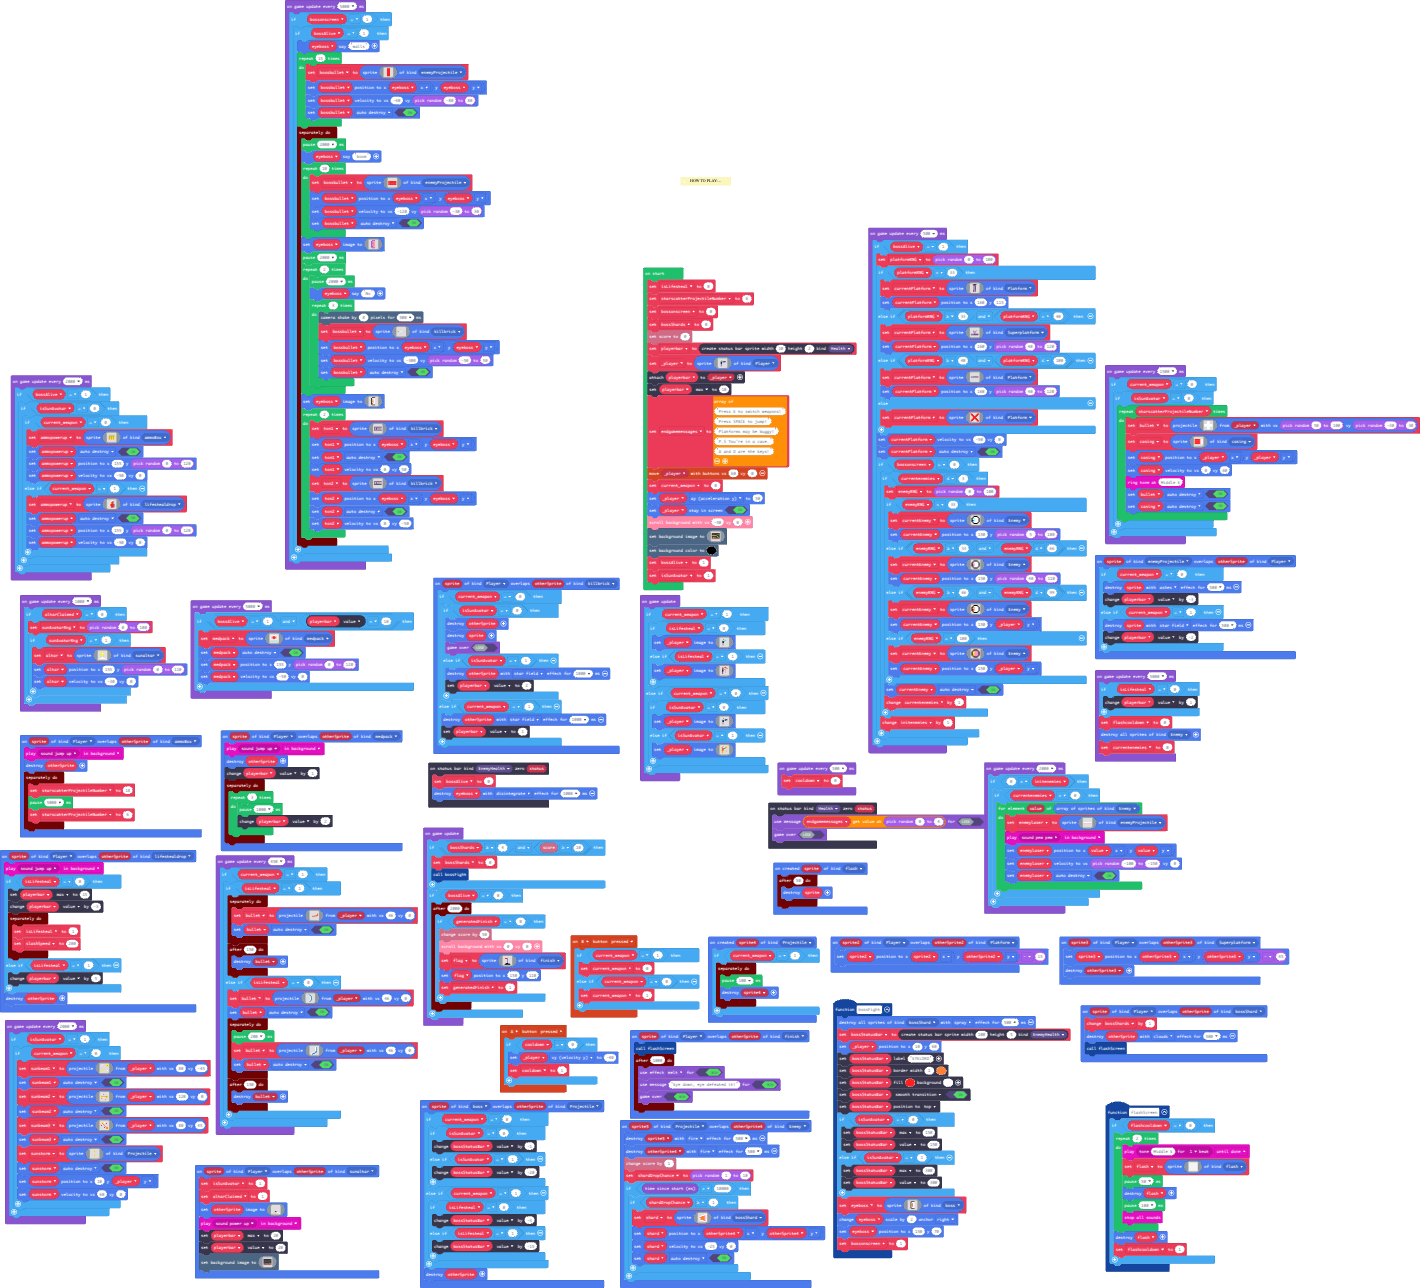
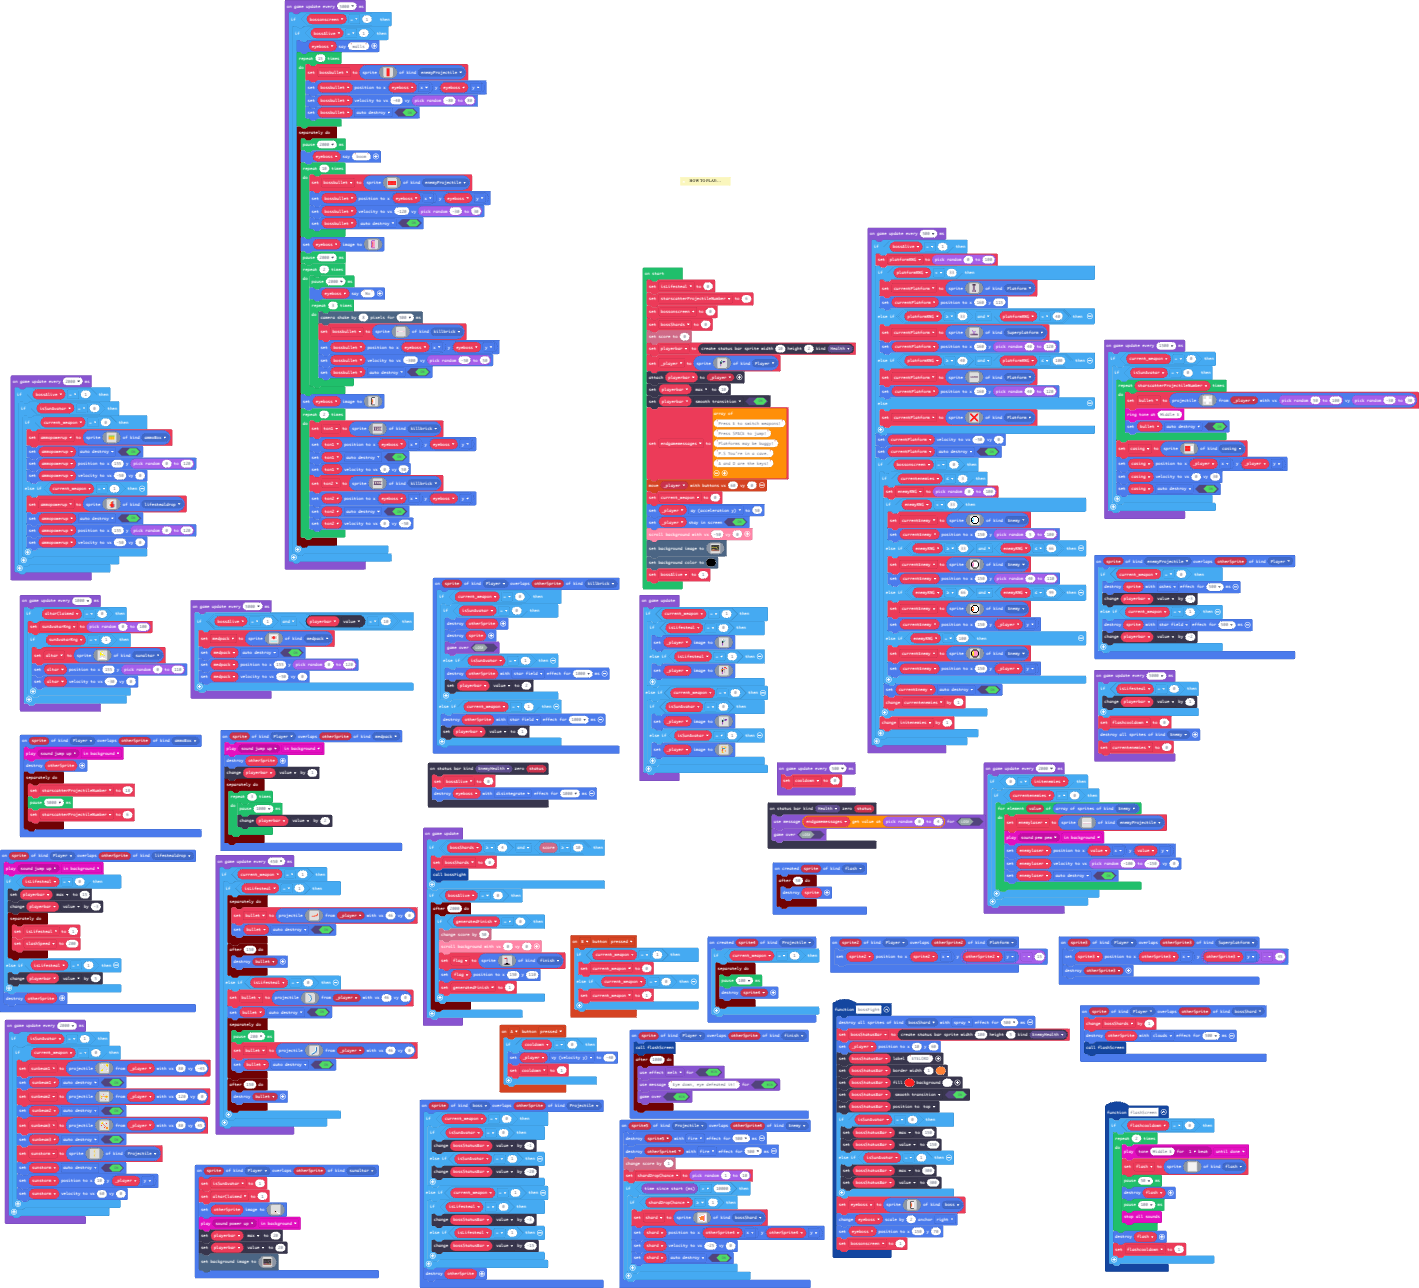
Update main.blocks, main.ts

diff --git a/main.ts b/main.ts
@@ -617,6 +617,7 @@ playerbar = statusbars.create(10, 2, StatusBarKind.Health)
 _player = sprites.create(assets.image`player_gun1`, SpriteKind.Player)
 playerbar.attachToSprite(_player)
 playerbar.max = 10
+playerbar.setStatusBarFlag(StatusBarFlag.SmoothTransition, true)
 endgamemessages = [
 "Press E to switch weapons!",
 "Press SPACE to jump!",
@@ -753,7 +754,6 @@ scene.setBackgroundImage(img`
     `)
 scene.setBackgroundColor(15)
 bossAlive = 1
-isSunAvatar = 1
 game.onUpdate(function () {
     if (current_weapon == 1) {
         if (isLifesteal == 0) {
@@ -1208,18 +1208,16 @@ game.onUpdateInterval(1500, function () {
                     1 1 1 
                     . 1 . 
                     `, _player, randint(50, 100), randint(-30, 30))
-                casing = sprites.create(img`
-                    2 2 2 2 2 1 1 
-                    2 2 2 2 2 1 1 
-                    2 2 2 2 2 1 1 
-                    2 2 2 2 2 1 1 
-                    `, SpriteKind.casing)
-                casing.setPosition(_player.x, _player.y)
-                casing.setVelocity(0, 60)
                 music.ringTone(330)
                 bullet.setFlag(SpriteFlag.AutoDestroy, true)
-                casing.setFlag(SpriteFlag.AutoDestroy, true)
             }
+            casing = sprites.create(img`
+                2 2 1 
+                2 2 1 
+                `, SpriteKind.casing)
+            casing.setPosition(_player.x, _player.y)
+            casing.setVelocity(0, 30)
+            casing.setFlag(SpriteFlag.AutoDestroy, true)
         }
     }
 })
